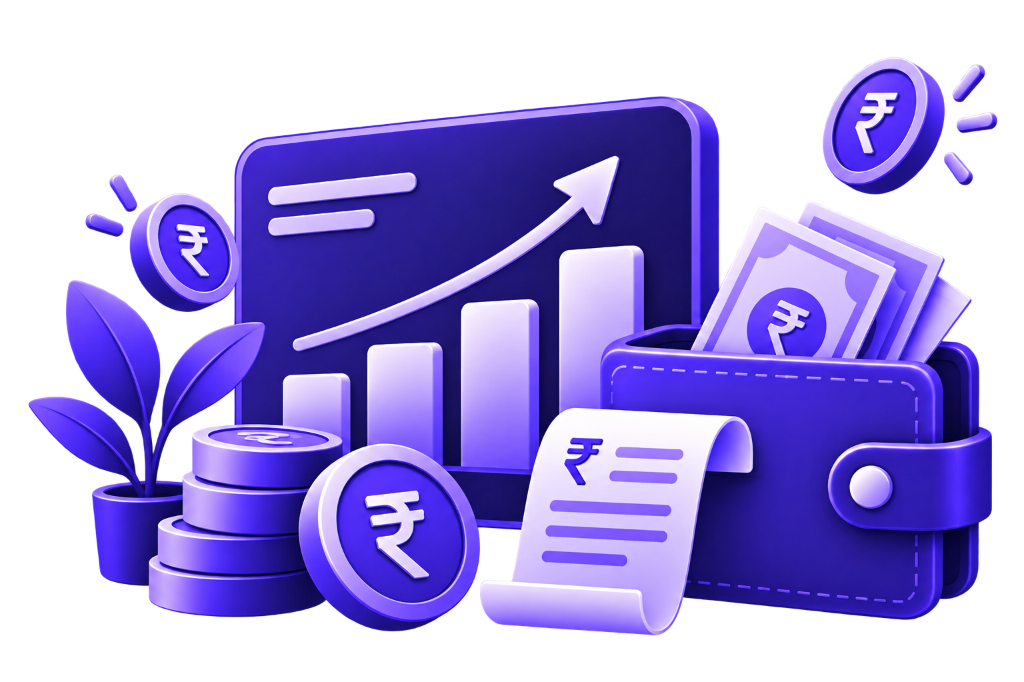
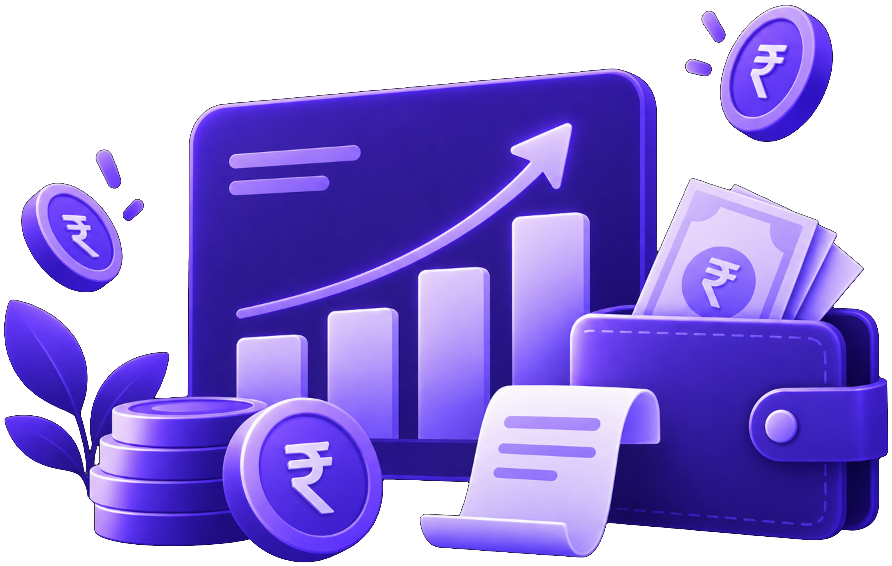
Revert "feat(ui): update Goal Tracker and Cash Flow quote cards with clean transparent 3D illustrations"
This reverts commit 4c88a65c4b3ab1b3a7036a6f2f91b35d9f1af247.

diff --git a/track_me/lib/features/goals/presentation/screens/goals_screen.dart b/track_me/lib/features/goals/presentation/screens/goals_screen.dart
@@ -270,16 +270,12 @@ class _GoalsScreenState extends ConsumerState<GoalsScreen> {
                               borderRadius: BorderRadius.circular(24),
                               child: Stack(
                                 children: [
-                                  // 3D Goal Climber Illustration Graphic (Transparent native blend)
-                                  Positioned(
-                                    right: -2,
-                                    top: 6,
-                                    bottom: 0,
-                                    width: artWidth,
+                                  // Background Hero Banner Graphic (Seamless edge-to-edge cover)
+                                  Positioned.fill(
                                     child: Image.asset(
-                                      'assets/images/goal_climber_illustration.png',
-                                      fit: BoxFit.contain,
-                                      alignment: Alignment.bottomRight,
+                                      'assets/images/goal_hero_banner.png',
+                                      fit: BoxFit.cover,
+                                      alignment: Alignment.centerRight,
                                       errorBuilder: (_, __, ___) => const SizedBox.shrink(),
                                     ),
                                   ),

diff --git a/track_me/lib/features/cashflow/presentation/widgets/cashflow_quote_card.dart b/track_me/lib/features/cashflow/presentation/widgets/cashflow_quote_card.dart
@@ -122,16 +122,12 @@ class _CashFlowQuoteCardState extends State<CashFlowQuoteCard> {
               borderRadius: BorderRadius.circular(24),
               child: Stack(
                 children: [
-                  // 3D Cash Flow Illustration Graphic (Transparent native blend)
-                  Positioned(
-                    right: -2,
-                    top: 6,
-                    bottom: 0,
-                    width: artWidth,
+                  // Background Hero Banner Graphic (Seamless edge-to-edge cover)
+                  Positioned.fill(
                     child: Image.asset(
-                      'assets/images/cashflow_illustration.png',
-                      fit: BoxFit.contain,
-                      alignment: Alignment.bottomRight,
+                      'assets/images/cashflow_hero_banner.png',
+                      fit: BoxFit.cover,
+                      alignment: Alignment.centerRight,
                       errorBuilder: (_, __, ___) => const SizedBox.shrink(),
                     ),
                   ),
